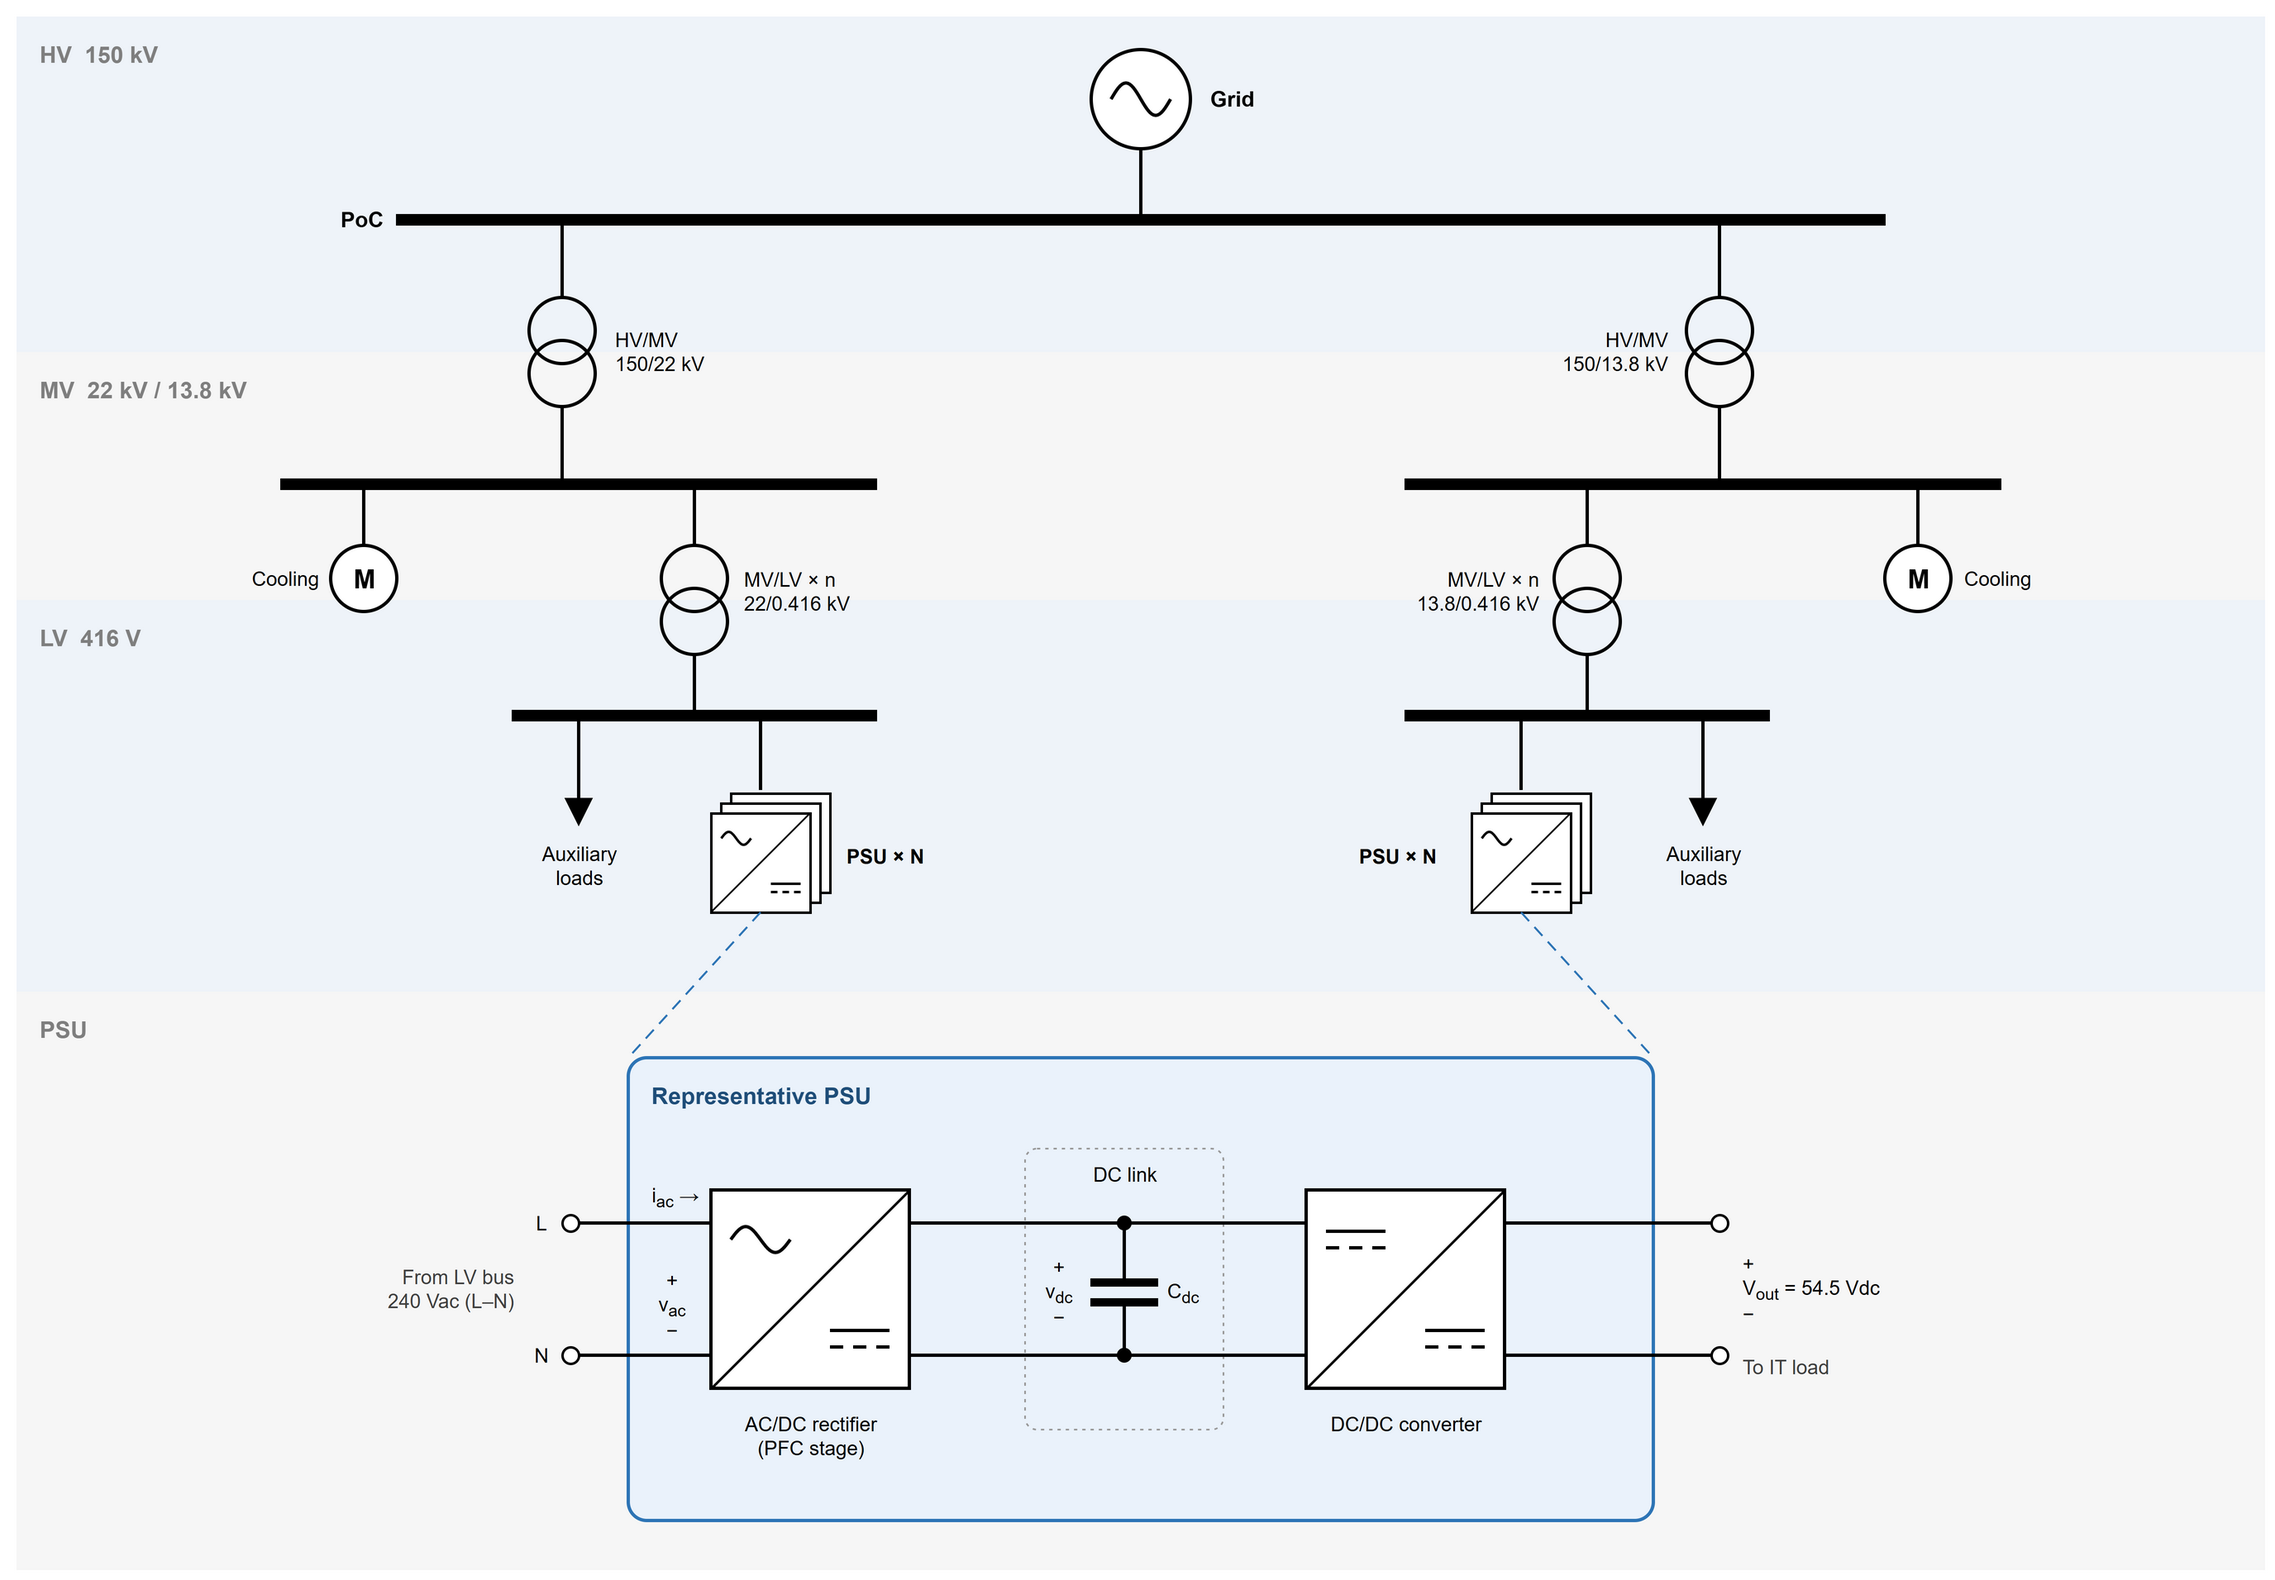
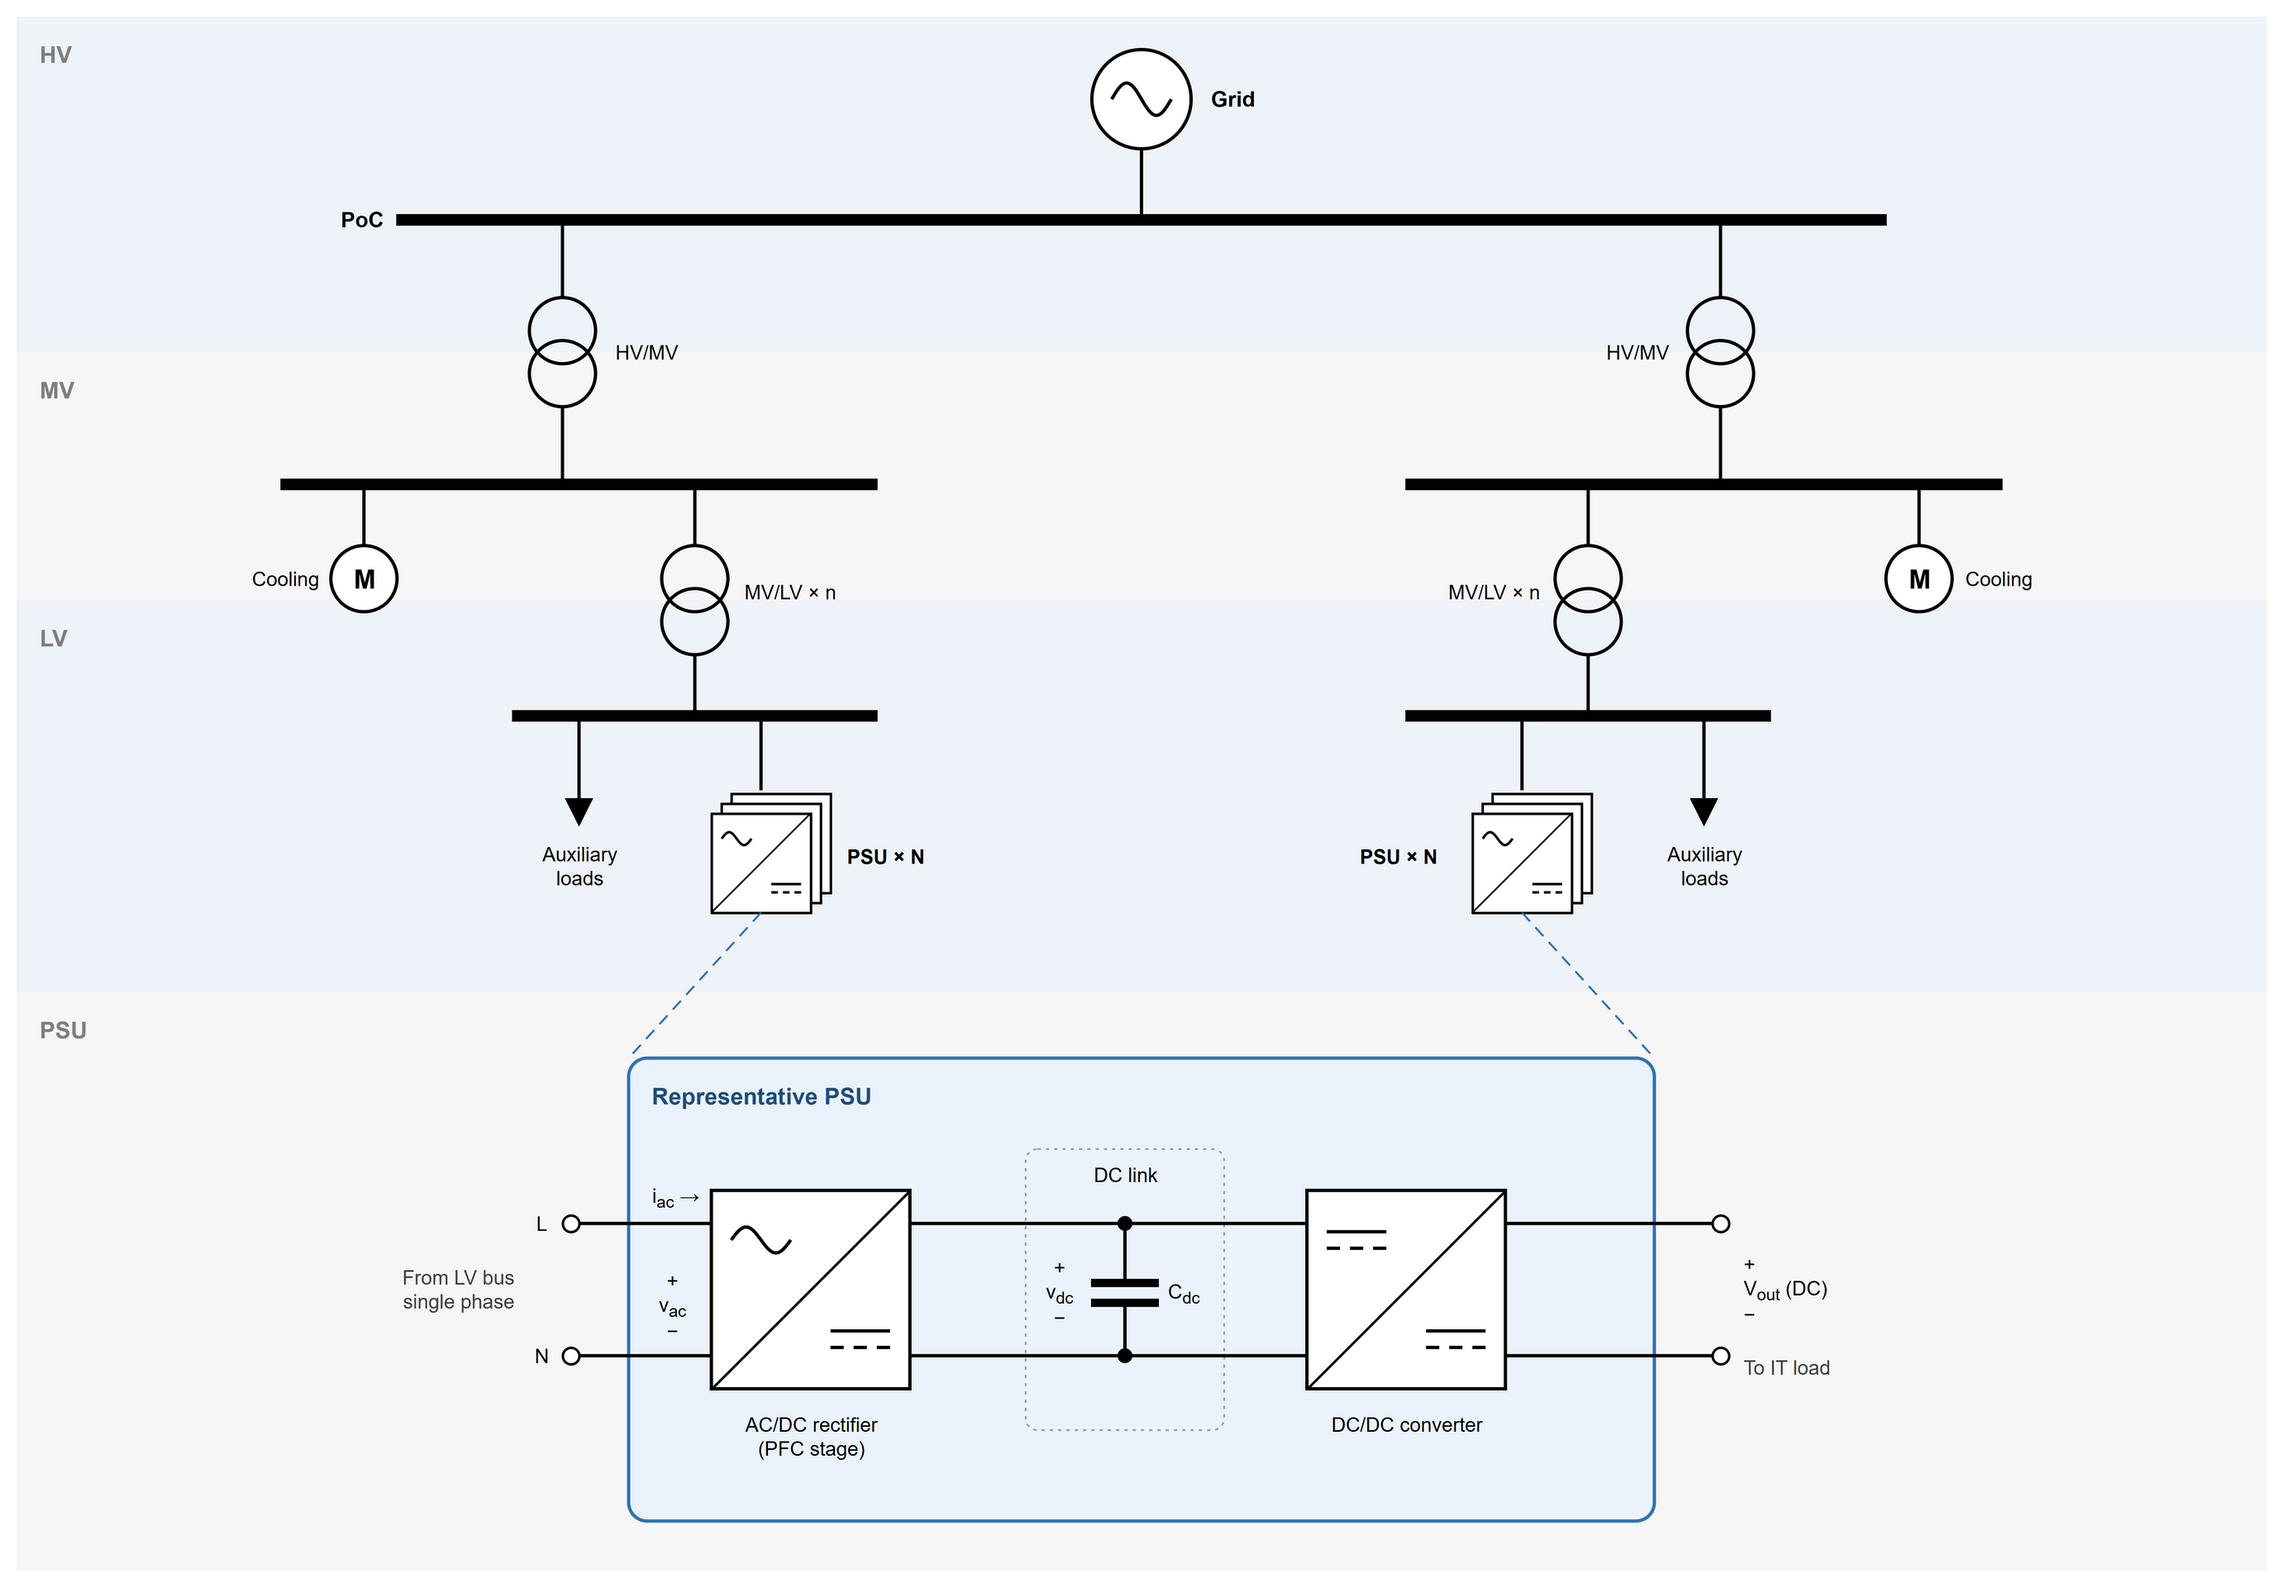
v5 step 3: round the data center study, generalise the fault locator
Approximate ratings and no voltage levels in the data center text and
overview figure; role added. Fault locator approach and method figure
keep the textbook steps only. Card crops for both covers.

diff --git a/website/src/content/projects/datacenter-grid-compliance.md b/website/src/content/projects/datacenter-grid-compliance.md
@@ -4,22 +4,24 @@ category: energy
 kind: professional
 order: 1
 featured: true
+coverFocus: "50% 6%"
+coverZoom: 1.4
 context: Client project, grid connection study
 start: "2025"
-blurb: A validated dynamic model of how a 140 MW data center behaves on the transmission grid, built up from one 3 kW power supply.
-problem: The facility connects to the 150 kV network with about 140 MW of IT load, so under the grid code for demand connection it counts as a large demand facility and must prove in simulation how it rides through grid disturbances. Almost all of that load is more than 45,000 single-phase 3 kW power supply units (PSUs), each a small converter with its own control and protection.
+blurb: How a data center with over 100 MW of IT load behaves on the transmission grid, modelled up from one validated 3 kW power supply.
+role: Built the MATLAB and PSCAD models, developed the benchmark measurement test bench and validated the model against it.
+problem: The facility connects to the high-voltage transmission network with over 100 MW of IT load, so under the grid code for demand connection it counts as a large demand facility and must prove in simulation how it rides through grid disturbances. Almost all of that load is tens of thousands of single-phase 3 kW power supply units (PSUs), each a small converter with its own control and protection.
 approach: Model one PSU in detail and validate it against laboratory measurements, then place it, aggregated, in an EMT model of the whole facility network and derive an equivalent RMS model for the transmission system operator.
 result: A compliance case built on a measured converter model instead of a generic load, with fault ride-through, voltage, frequency, phase-jump, RoCoF and harmonic results at the point of connection, plus a black-box RMS model and user manual the TSO can use in its own studies.
 stack: [MATLAB/Simulink, PSCAD/EMTDC, PowerFactory]
 facts:
-  - { label: Facility, value: "About 140 MW of IT load, two buildings" }
-  - { label: Grid connection, value: "150 kV transmission network" }
-  - { label: Main load, value: "More than 45,000 single-phase 3 kW PSUs" }
-  - { label: Voltage levels, value: "150 / 22 kV and 13.8 / 0.416 kV, 240 V L–N" }
+  - { label: Facility, value: "Over 100 MW of IT load, two buildings" }
+  - { label: Grid connection, value: "High-voltage transmission network" }
+  - { label: Main load, value: "Tens of thousands of single-phase 3 kW PSUs" }
   - { label: Framework, value: "Grid code for demand connection" }
 figures:
   - src: ../../assets/projects/datacenter-grid-compliance/facility-overview.png
-    alt: Single-line diagram from the 150 kV grid connection through HV/MV and MV/LV transformers to banks of power supply units, with one representative PSU expanded into rectifier, DC link and DC/DC converter.
+    alt: Single-line diagram from the high-voltage grid connection through HV/MV and MV/LV transformers to banks of power supply units, with one representative PSU expanded into rectifier, DC link and DC/DC converter.
     caption: From the grid connection down to the representative power supply unit.
   - src: ../../assets/projects/datacenter-grid-compliance/psu-topology.png
     alt: Power supply unit topology, an AC/DC rectifier with power factor correction feeding a DC link capacitor and a DC/DC converter.

diff --git a/docs/website/08-handover.md b/docs/website/08-handover.md
@@ -13,7 +13,8 @@ Read first: [06-design-audit.md](06-design-audit.md) (why), [07-v5-plan.md](07-v
 | Last gate | After step 2: `npm run check` 0 errors, figures clean; build 15 pages; Playwright 83 passed, 1 skipped; private name scan clean |
 | Step 3 draft | In `git stash` (`stash@{0}`, "v5 step 3 draft"): rounded data-center text and role, data-center overview re-exported without voltages, fault-locator approach and hybrid-method figure generalised (D7). **Not gated, not committed.** Apply with `git stash pop`, view both figures, then run the gate |
 | Step 2b | Done 2026-10-14: audit 16/20, critique 23/32 (unchanged); new R16 (lead figure clipped) and R17 (em-dash readouts, footer version) |
-| Next | **Steps 3–12** |
+| Step 3 | Done 2026-10-14 (data center rounded, fault locator generalised, card crops for both) |
+| Next | **Steps 4–12** |
 
 ## 2. Rules that are not negotiable
 
@@ -66,10 +67,10 @@ Purpose: confirm the baseline and settle which design items (R1–R15) change be
 - [x] Keep it short: one pass, findings as a table, no code changes. Commit the plan update as its own step.
 
 ### Step 3. Data center update
-- [ ] Start from the stash (`git stash pop`). Round the text per the private map (decisions D2, D7) and drop the voltage-levels fact.
-- [ ] Re-export the overview figure without exact voltages; replace `src/assets/projects/datacenter-grid-compliance/facility-overview.png`; `figures.mjs --fix`; view it.
-- [ ] Add `role`.
-- [ ] Fault locator (D7, also in the stash): drop the 1 % arrival threshold and the layer sizes from the text and from the hybrid-method figure; keep the textbook steps (Clarke transform, Teager energy, arrival times). Check that no other published text names an internal parameter.
+- [x] Start from the stash (`git stash pop`). Round the text per the private map (decisions D2, D7) and drop the voltage-levels fact.
+- [x] Re-export the overview figure without exact voltages; replace `src/assets/projects/datacenter-grid-compliance/facility-overview.png`; `figures.mjs --fix`; view it.
+- [x] Add `role`.
+- [x] Fault locator (D7, also in the stash): drop the 1 % arrival threshold and the layer sizes from the text and from the hybrid-method figure; keep the textbook steps (Clarke transform, Teager energy, arrival times). Check that no other published text names an internal parameter.
 
 ### Steps 4–9. One case study each
 Order: `pumped-storage-dfim-model`, `synchronous-condenser-model`, `ccgt-excitation-limiters`, `pv-plant-controller-models`, `gas-engine-plant-model`, `biogas-chp-plant-controller`. For each:

diff --git a/website/src/content/projects/tw-fault-locator.md b/website/src/content/projects/tw-fault-locator.md
@@ -5,12 +5,13 @@ also: [ai]
 kind: professional
 order: 2
 featured: true
+coverFocus: "35% 50%"
 context: Client project for a power utility
 start: "2025"
 blurb: Travelling-wave physics and a deep neural network that turn one substation recording into a distance to the fault.
 role: Researched and developed the physics-informed machine learning model.
 problem: When a line faults, the utility has to find the fault fast to restore supply. The fault sends voltage wavefronts along the line at close to the speed of light, and the time between them gives the distance, but real recordings carry noise, reflections and fault resistance, so a time-based calculation alone can be inaccurate.
-approach: A hybrid locator. Travelling-wave features are extracted from the recording (Clarke transform, Teager energy operator, arrival times at 1 % of peak energy) and a deep neural network with four hidden layers turns them into a fault distance in kilometres.
+approach: A hybrid locator. Standard travelling-wave signal processing (Clarke transform, Teager energy, wavefront arrival times) extracts features from the recording, and a deep neural network turns them into a fault distance in kilometres.
 result: On faults the model never saw in training, R² of 96.7 %, mean absolute error of 8.3 km and RMS error of 15.1 km. Handed over with the trained model, the scripts, the PSCAD dataset and a user guide.
 stack: [PSCAD, MATLAB, Python, TensorFlow]
 facts:

diff --git a/docs/website/03-work-log.md b/docs/website/03-work-log.md
@@ -239,3 +239,10 @@ Research in `docs/card/01-research.md`, build notes in `docs/card/02-build.md`. 
 - Also new: R17 (em dashes in the demo's empty readouts, Astro version in the footer). Every other finding maps to R1, R4–R6, R9, R10, R13–R15, step 3 or step 10. Results in [07-v5-plan.md](07-v5-plan.md) §2.4.
 - Open question added to the handover: the Home hero names the current employer.
 - **Gate:** check 0 errors, figures clean; build 15 pages; Playwright 83 passed, 1 skipped; name scan clean.
+
+## 2026-10-14 · v5 Step 3: Data center rounded, fault locator generalised (D7)
+- Applied the stashed draft. Data center: "over 100 MW of IT load", "high-voltage transmission network", "tens of thousands of 3 kW PSUs"; voltage-levels fact dropped; role added from Devin's answer.
+- Overview figure re-exported without voltages (HV / MV / LV bands only) and replaced; metadata clean; viewed.
+- Fault locator: approach describes the textbook steps only (Clarke transform, Teager energy, arrival times); the arrival threshold and the layer count are gone from text and figure. No other published text names an internal parameter.
+- Card crops (R1): `coverFocus` and `coverZoom` for the data center, `coverFocus` for the fault locator; both cards now show a readable region.
+- **Gate:** check 0 errors, figures clean; 15 pages; Playwright 83 passed, 1 skipped; name scan clean; screenshots viewed (lead figure still clipped, R16).
